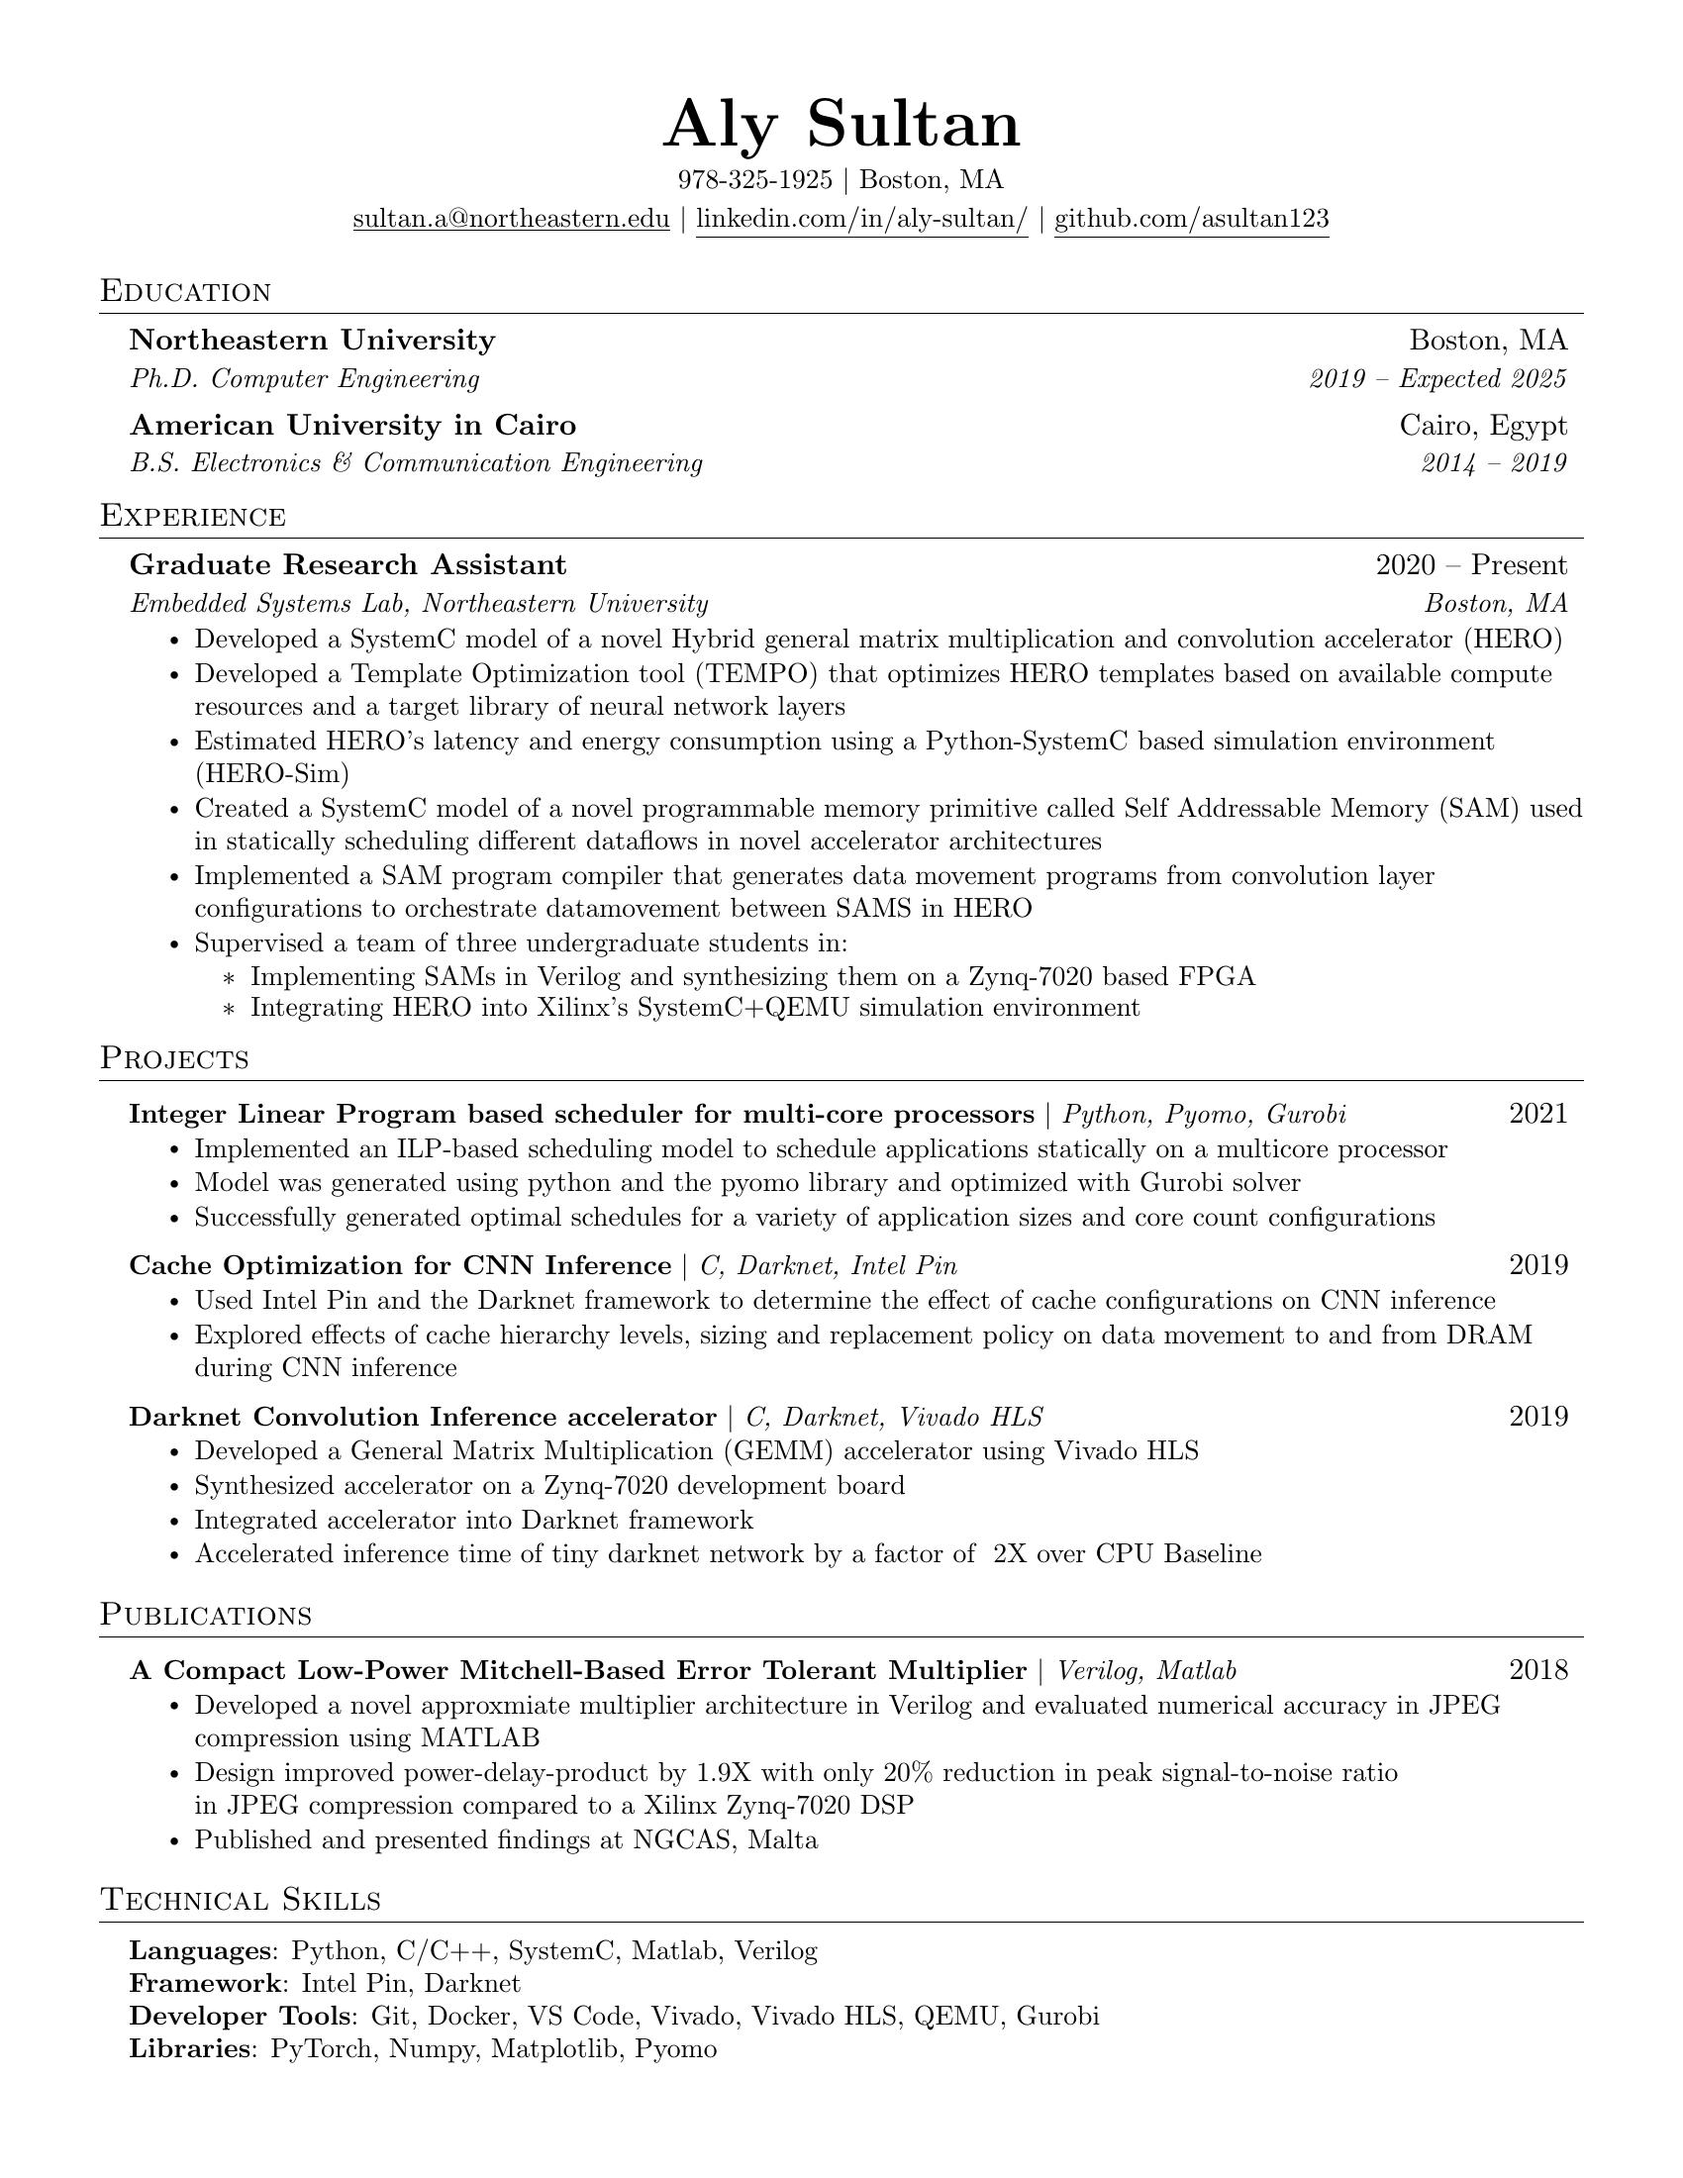
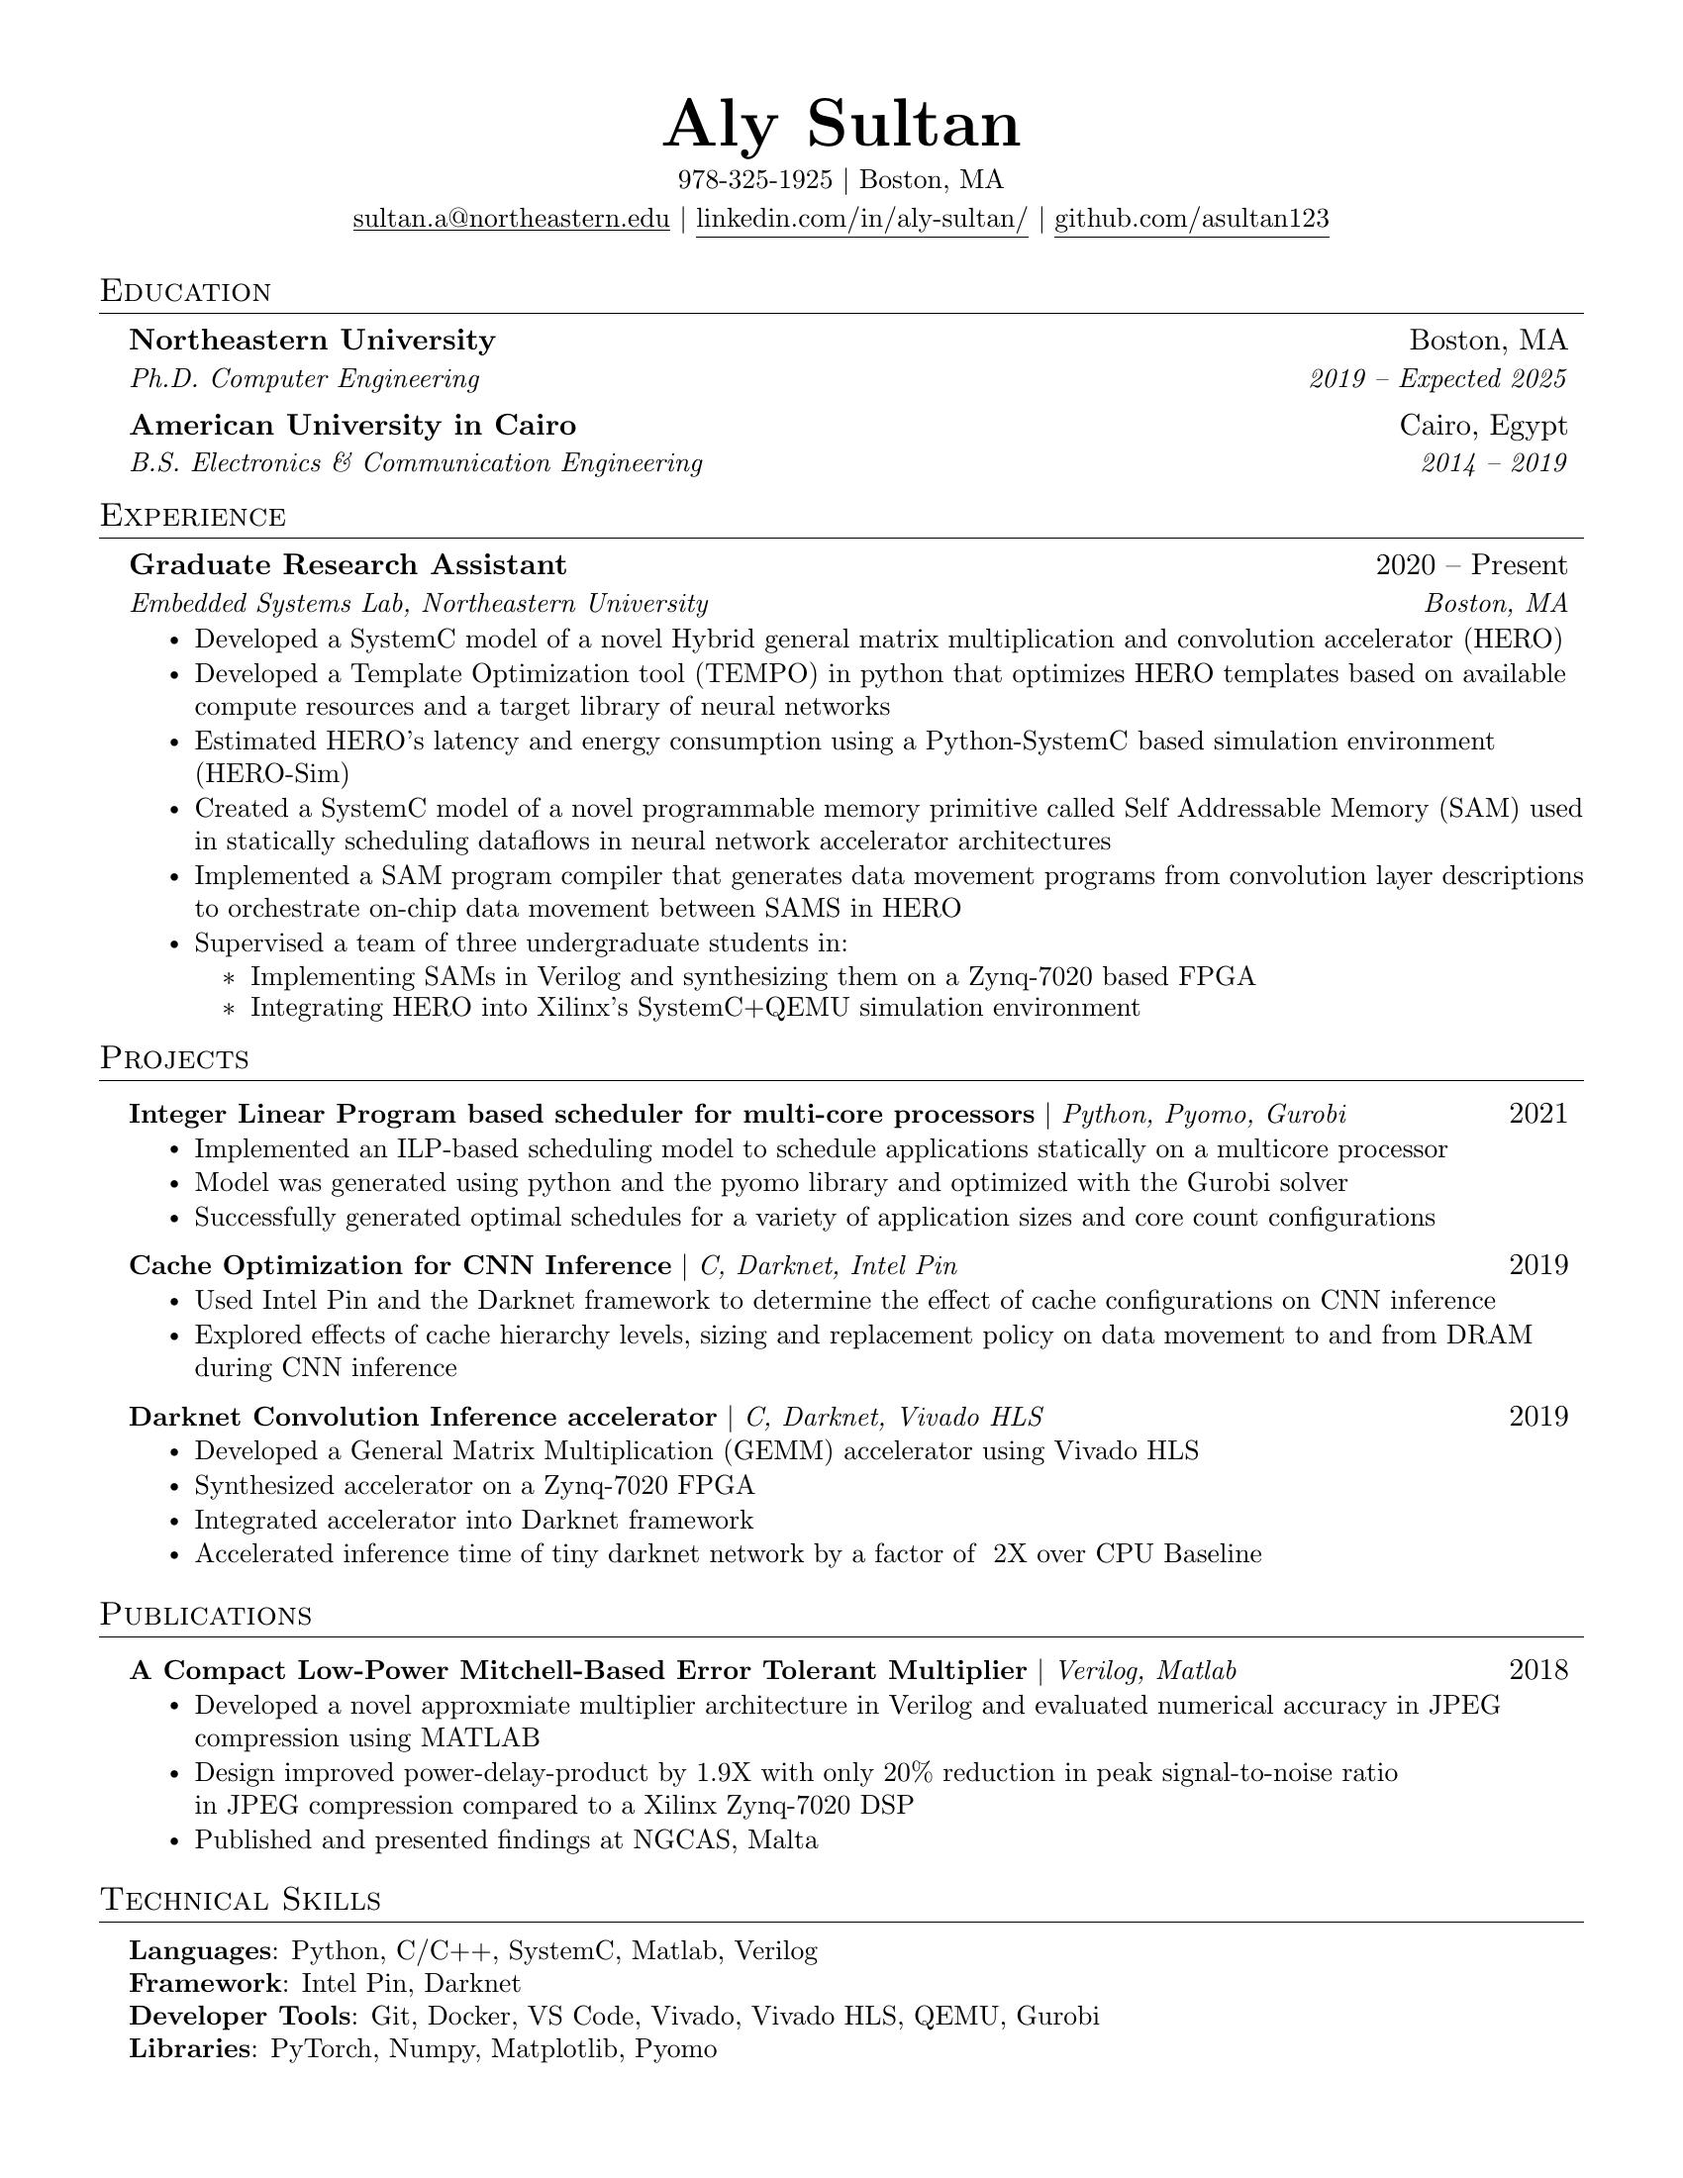
updated language

diff --git a/main.tex b/main.tex
@@ -142,25 +142,8 @@
       {Embedded Systems Lab, Northeastern University}{Boston, MA}
       \resumeItemListStart
 
-% Made a novel arch template for gemm and conv
-% Created a novel dataflow design space exploration tool that optimizes template to library of CNN networks
-% written in pytorch
-% CIGAR and TEMPO
-% Model arch template in SystemC
-% Created HERO-T Simulation environment that scans networks and calls HERO-T Simulation
-% Created novel on-chip programmable memory primitive SAMS
-% Developed a layer compiler that can generate data movement descriptor for SAMs
-% Supervised undergrads in   
-  % Integrated model into Xilinx's QEMU+SystemC
-  % Developing verilog implementation for SAMS using Xilinx's stuff
-  % Exploring sched synchronization in inconsistent memory environment
-
-        % \resumeItem{Created a novel neural network accelerator dataflow exploration methodology based on two in house tools CIGAR and TEMPO}
-        % \resumeItem{Used Cnn statistIcs gATherer (CIGAR) tool to prune dataflow design space of convolution accelerators}
         \resumeItem{Developed a SystemC model of a novel Hybrid general matrix multiplication and convolution accelerator (HERO)}
         \resumeItem{Developed a Template Optimization tool (TEMPO) in python that optimizes HERO templates based on available compute resources and a target library of neural networks }
-        % \resumeItem{Used accelerator TEMplate Optimizer (TEMPO) tool to optimize HERO for ~419 real world neural networks}
-        % \resumeItem{Embedded the HERO model in a Python-SystemC based simulation environment (HERO-Sim) that runs a cycle accurate simulation of arbitrary neural network layers written in pytorch to estimate latency and energy consumption}
         \resumeItem{Estimated HERO's latency and energy consumption using a Python-SystemC based simulation environment (HERO-Sim)}
         \resumeItem{Created a SystemC model of a novel programmable memory primitive called Self Addressable Memory (SAM) used in statically scheduling dataflows in neural network accelerator architectures}
         \resumeItem{Implemented a SAM program compiler that generates data movement programs from convolution layer descriptions to orchestrate on-chip data movement between SAMS in HERO}
@@ -170,28 +153,6 @@
           \resumeItem{Integrating HERO into Xilinx's SystemC+QEMU simulation environment}
           \resumeItemListEnd
         \resumeItemListEnd
-      
-% -----------Multiple Positions Heading-----------
-%    \resumeSubSubheading
-%     {Software Engineer I}{Oct 2014 - Sep 2016}
-%     \resumeItemListStart
-%        \resumeItem{Apache Beam}
-%          {Apache Beam is a unified model for defining both batch and streaming data-parallel processing pipelines}
-%     \resumeItemListEnd
-%    \resumeSubHeadingListEnd
-%-------------------------------------------
-
-    % \resumeSubheading
-    %   {Graduate Research Intern}{May 2019 -- July 2019}
-    %   {Southwestern University}{Georgetown, TX}
-    %   \resumeItemListStart
-    %     \resumeItem{Explored methods to generate video game dungeons based off of \emph{The Legend of Zelda}}
-    %     \resumeItem{Developed a game in Java to test the generated dungeons}
-    %     \resumeItem{Contributed 50K+ lines of code to an established codebase via Git}
-    %     \resumeItem{Conducted  a human subject study to determine which video game dungeon generation technique is enjoyable}
-    %     \resumeItem{Wrote an 8-page paper and gave multiple presentations on-campus}
-    %     \resumeItem{Presented virtually to the World Conference on Computational Intelligence}
-    %   \resumeItemListEnd
 
   \resumeSubHeadingListEnd
 
@@ -202,7 +163,7 @@
           {\textbf{Integer Linear Program based scheduler for multi-core processors} $|$ \emph{Python, Pyomo, Gurobi}}{2021}
           \resumeItemListStart
             \resumeItem{Implemented an ILP-based scheduling model to schedule applications statically on a multicore processor }
-            \resumeItem{Model was generated using python and the pyomo library and optimized with Gurobi solver }
+            \resumeItem{Model was generated using python and the pyomo library and optimized with the Gurobi solver }
             \resumeItem{Successfully generated optimal schedules for a variety of application sizes and core count configurations}
           \resumeItemListEnd
       % \resumeProjectHeading
@@ -221,7 +182,7 @@
           {\textbf{Darknet Convolution Inference accelerator} $|$ \emph{C, Darknet, Vivado HLS}}{2019}
           \resumeItemListStart
             \resumeItem{Developed a General Matrix Multiplication (GEMM) accelerator using Vivado HLS}
-            \resumeItem{Synthesized accelerator on a Zynq-7020 development board}
+            \resumeItem{Synthesized accelerator on a Zynq-7020 FPGA}
             \resumeItem{Integrated accelerator into Darknet framework}
             \resumeItem{Accelerated inference time of tiny darknet network by a factor of ~2X over CPU Baseline}
           \resumeItemListEnd
